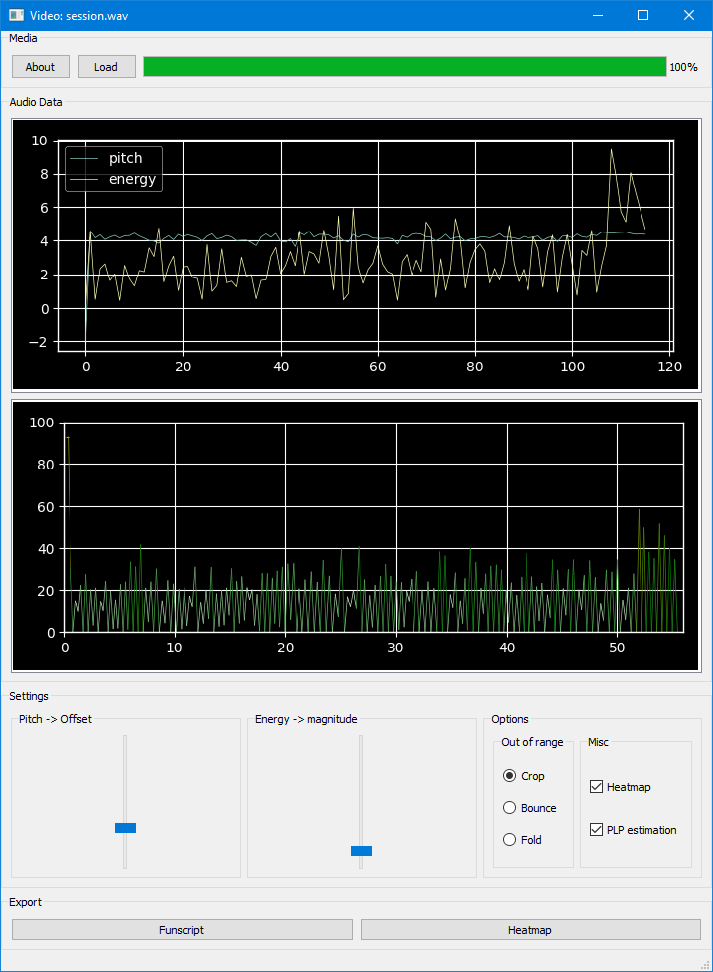
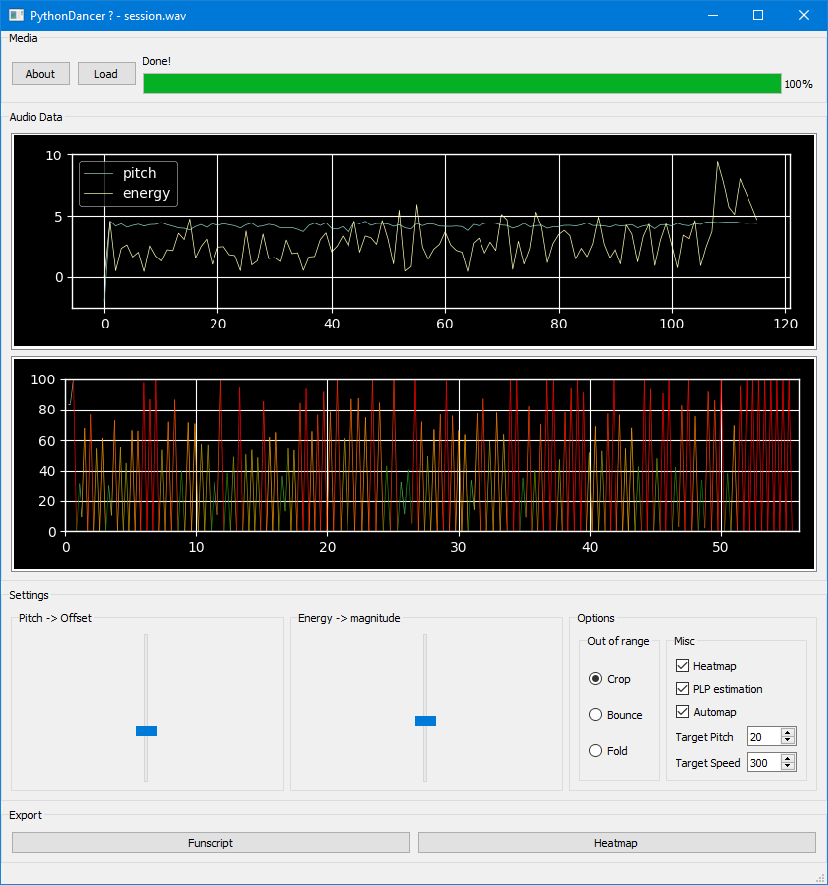
Update example image and README

diff --git a/README.md b/README.md
@@ -1,5 +1,15 @@
 A port of https://github.com/ncdxncdx/FunscriptDancer to python
 
-The UI is in Qt5 and has some bugs
-
 ![The UI running](example.PNG)
+
+Run it now by downloading the latest release exe!
+
+Or run it like
+```
+git clone https://github.com/NodudeWasTaken/PythonDancer
+cd PythonDancer
+pip install -r requirements.txt
+
+python -m dancer.ui
+python -m dancer.cli -h
+```
